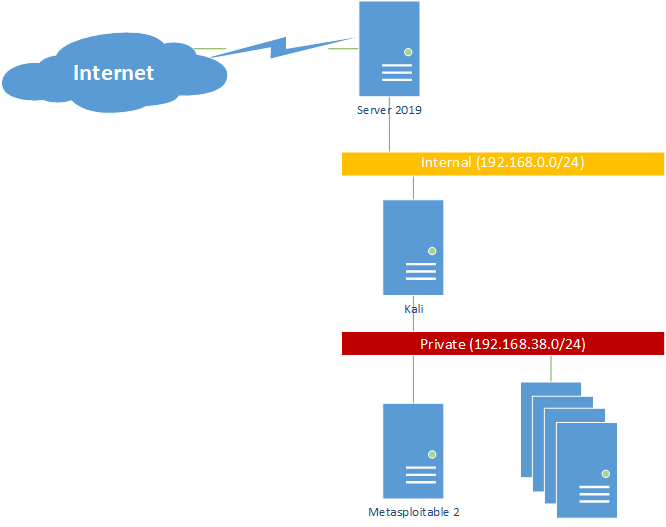
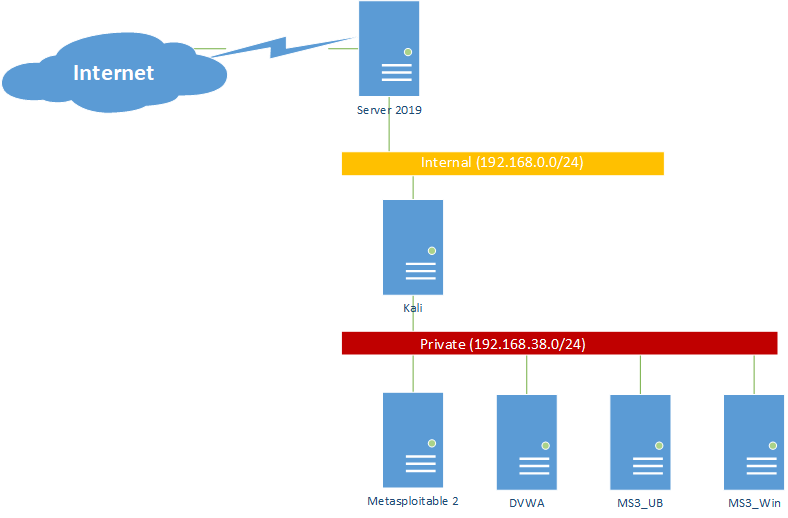
Updated to use Metasploitable3

diff --git a/IT460/README.md b/IT460/README.md
@@ -2,6 +2,8 @@
 Based on https://github.com/Azure/azure-devtestlab/blob/master/samples/ClassroomLabs/Scripts/EthicalHacking/Setup-EthicalHacking.ps1
 
 ## To run:
+Download Metasploitable3 VMs and put OVA files in %TEMP%
+
 ```
 Invoke-WebRequest "https://raw.githubusercontent.com/edgoad/ITVMs/master/IT460/01-MainSetup.ps1" -OutFile $env:TEMP\01-MainSetup.ps1
 ."$env:Temp\01-MainSetup.ps1"
@@ -36,16 +38,42 @@ sudo linux-vm-tools/kali/2020.x/install.sh
    - Shutdown Kali, then in PowerShell
 ```Set-VM "Kali Linux" -EnhancedSessionTransportType HvSocket```
 
-**Metasploitable VM**
+**Metasploitable 2**
+1. Configure Network
+   - Private Network
+     - IP: 192.168.38.20/24
+     - GW: 192.168.38.1
+   - metasploitable2 static IP instructions: https://www.howtoforge.com/community/threads/setting-static-ip-on-ubuntu-8-04-server.25277/
+
+**Metasploitable 3 Ubuntu**
 1. Configure Network
    - Private Network
      - IP: 192.168.38.30/24
      - GW: 192.168.38.1
-   - metasploitable2 static IP instructions: https://www.howtoforge.com/community/threads/setting-static-ip-on-ubuntu-8-04-server.25277/
+
+**Metasploitable 3 Windows**
+1. Configure Network
+   - Private Network
+     - IP: 192.168.38.40/24
+     - GW: 192.168.38.1
+2. Login and ensure devices are discovered properly
+
+**DVWA**
+1. Configure Network (temporary)
+2. Install DVWA - https://edgoad.com/2020/02/setting-up-dvwa.html
+3. Reconfigure Network
+   - Private Network
+     - IP: 192.168.38.50/24
+     - GW: 192.168.38.1
 
 **All VMs**
 When finished customizing
 ```
 Get-VM | Stop-VM
 Get-VM | Checkpoint-VM -SnapshotName "Initial snapshot"
+```
+Run the following to re-ask for username on first boot
+```
+$command = 'powershell -Command "& { rename-computer -newname $( $( read-host `"Enter your username:`" ) + \"-\" + $( -join ((65..90) + (97..122) | Get-Random -Count 12 | %{[char]$_})) ).SubString(0,12) }"'
+New-ItemProperty -Path 'HKLM:\Software\Microsoft\Windows\CurrentVersion\RunOnce' -Name "Rename" -Value $Command -PropertyType ExpandString
 ```
